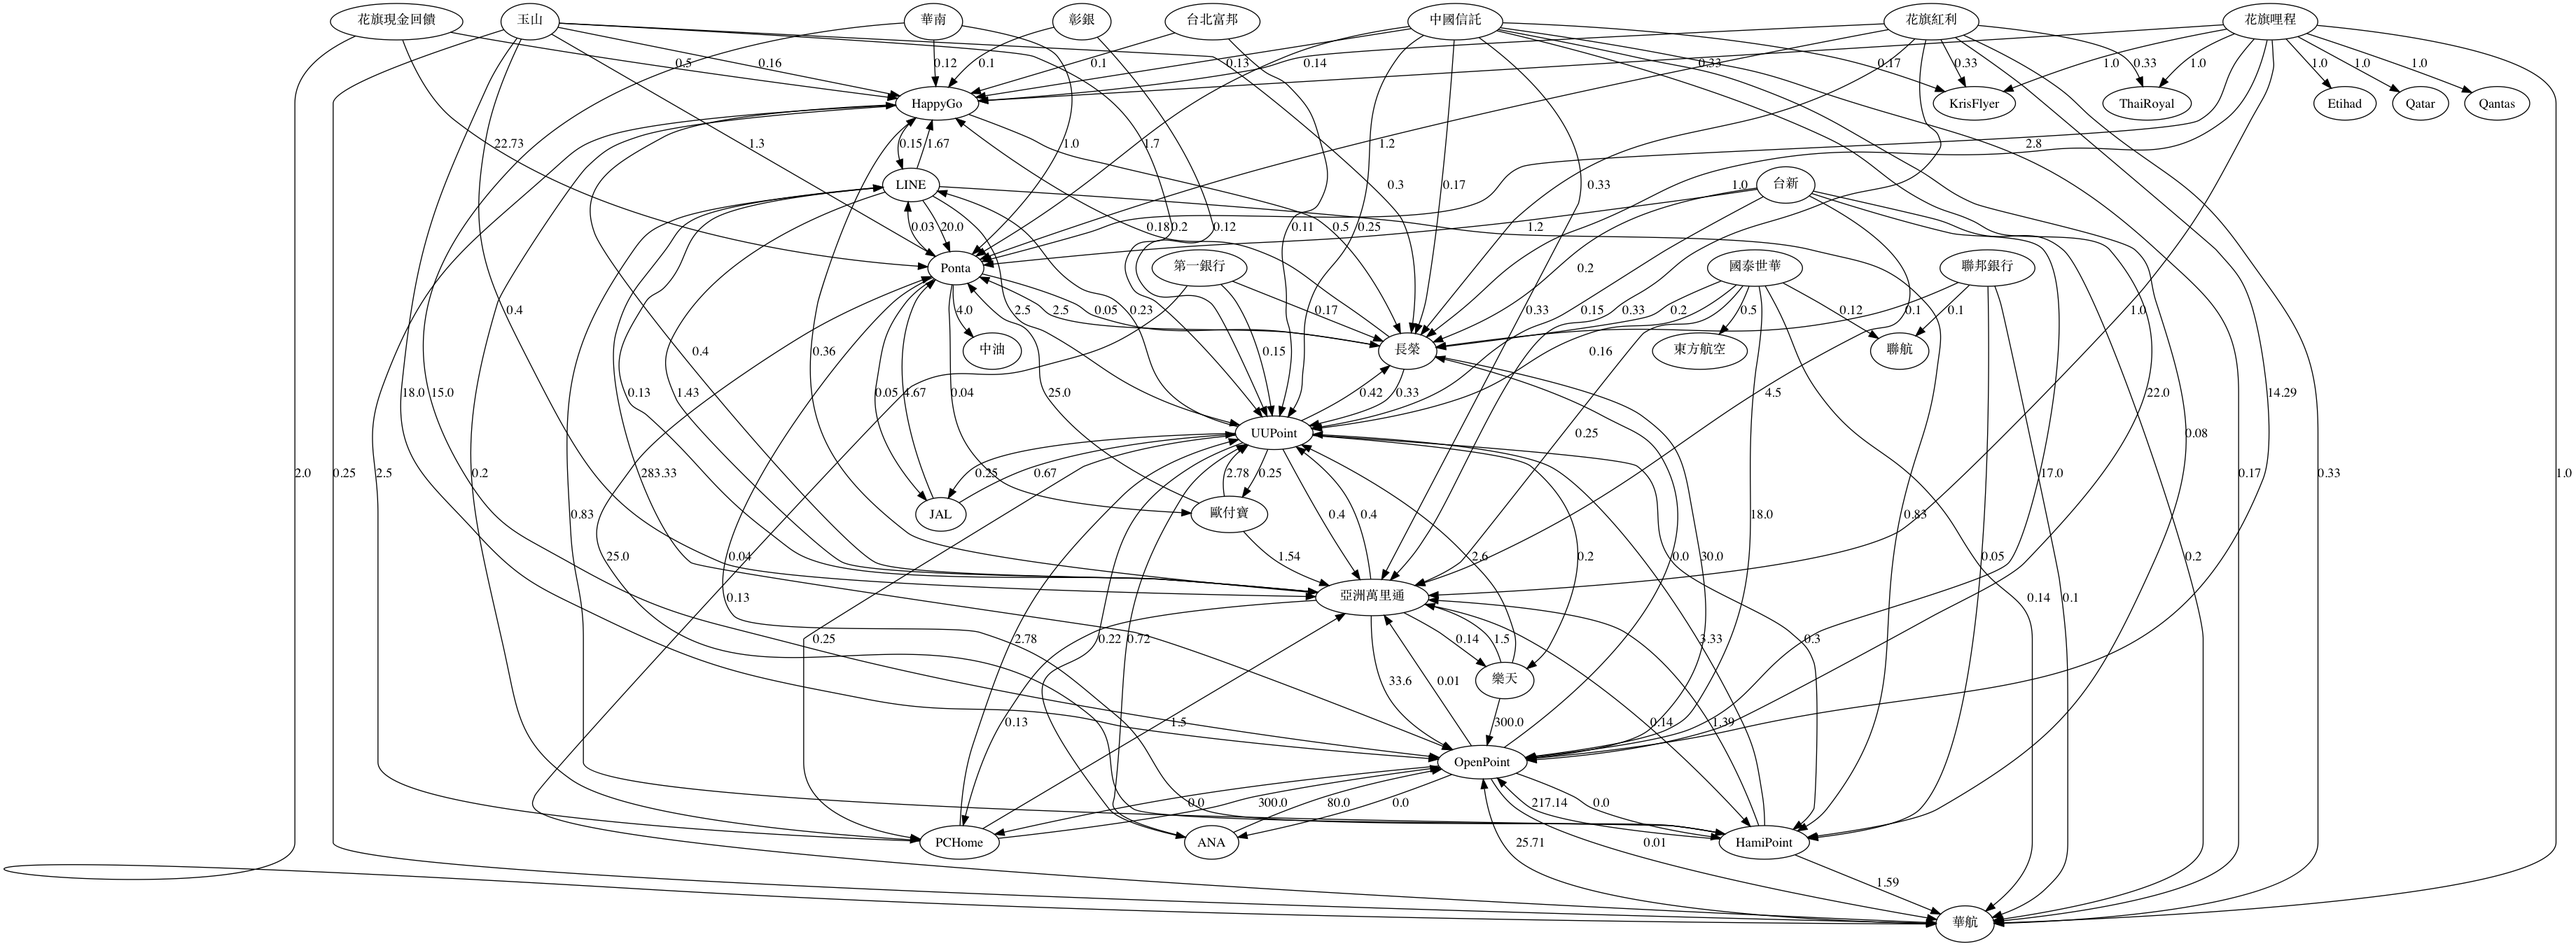
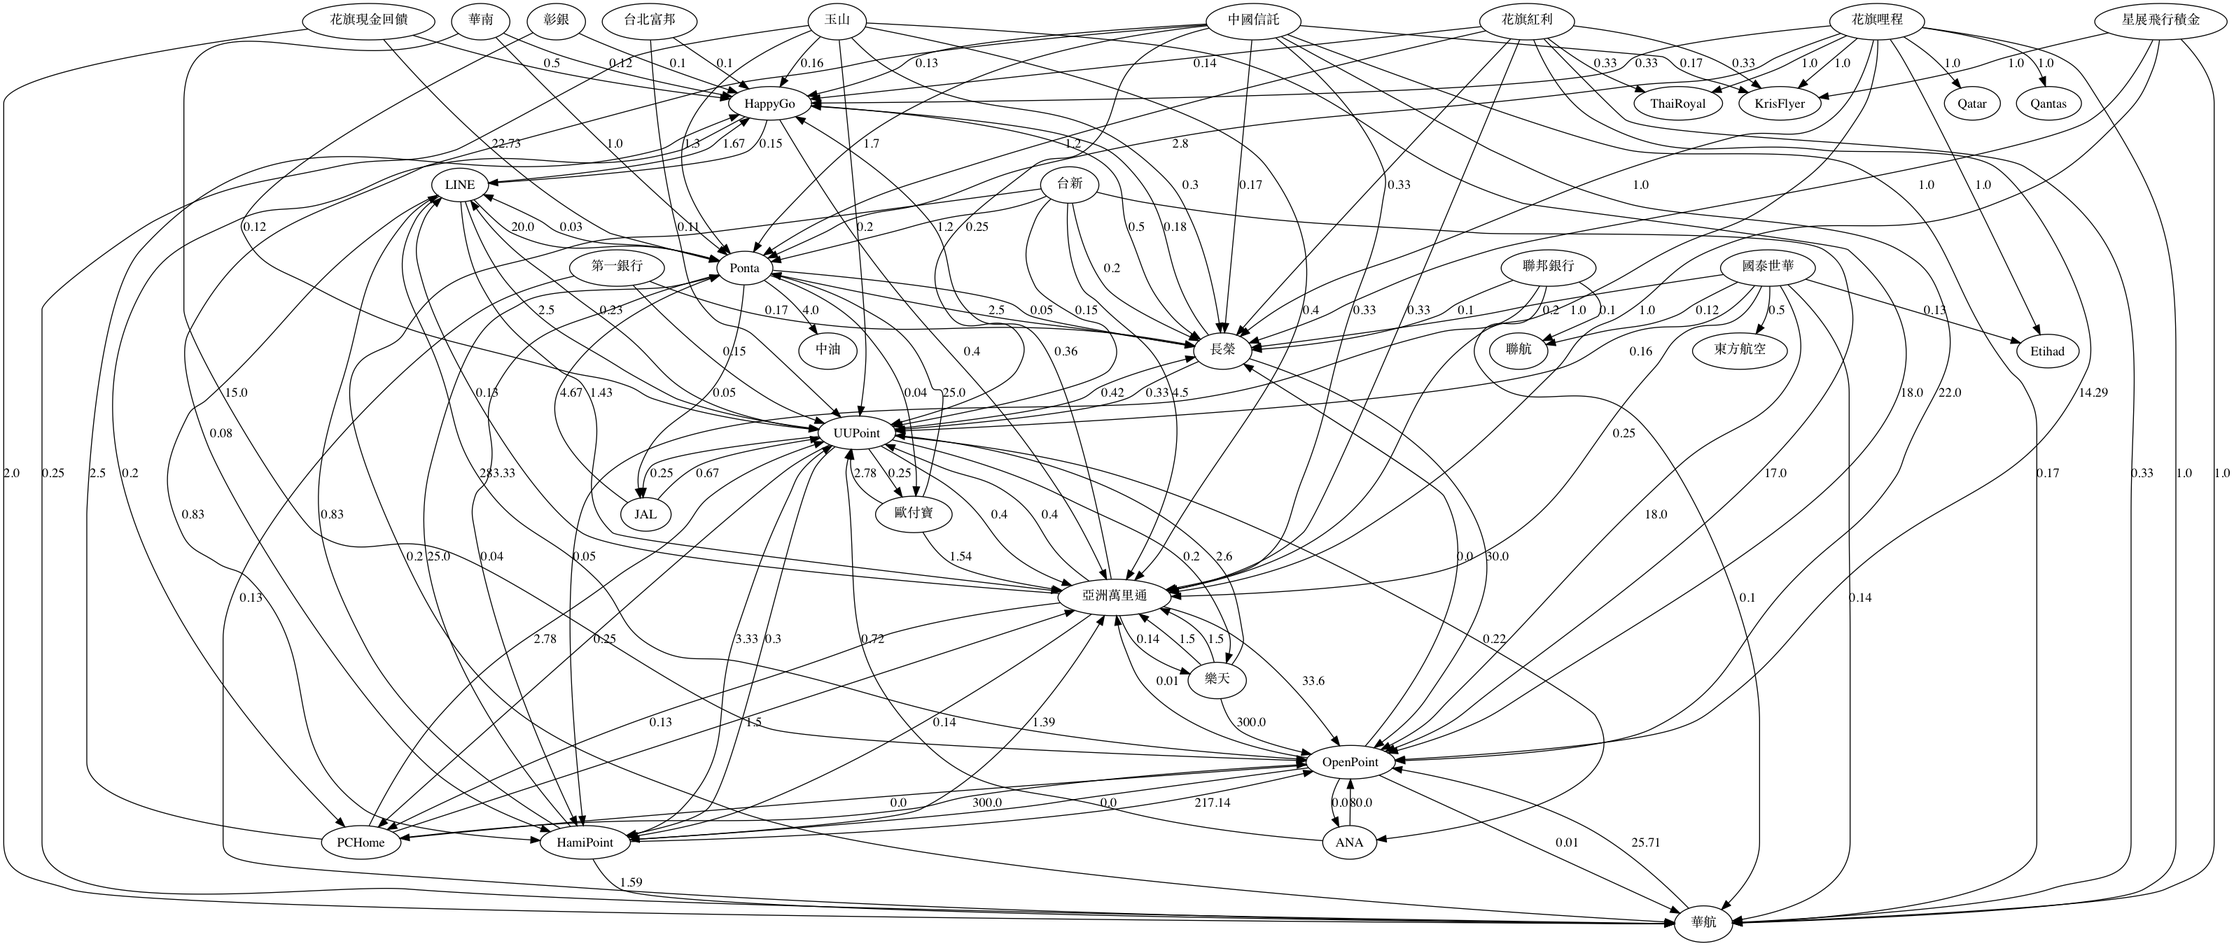
加上星展銀行(原澳盛飛行卡)

diff --git a/points.py b/points.py
@@ -91,6 +91,7 @@ edges = [
 	("樂天","OpenPoint",float(90000)/300),
 	("樂天","UUPoint",float(1300)/500),
 	("樂天","亞洲萬里通",float(300)/200),
+	("樂天","亞洲萬里通",float(300)/200),
 	("亞洲萬里通","HamiPoint",float(700)/5000),
 	("亞洲萬里通","LINE",float(650)/5000),
 	("亞洲萬里通","PCHome",float(650)/5000),
@@ -138,6 +139,11 @@ edges = [
 	("國泰世華","亞洲萬里通",float(2000)/8000),	
 	("國泰世華","東方航空",float(5000)/10000),	
 	("國泰世華","聯航",float(1000)/8500),	
+	("國泰世華","Etihad",float(1000)/7500),
+	("星展飛行積金","華航",float(1000)/1000),
+	("星展飛行積金","長榮",float(1000)/1000),
+	("星展飛行積金","亞洲萬里通",float(1000)/1000),
+	("星展飛行積金","KrisFlyer",float(1000)/1000),
 ]
 
 G.add_weighted_edges_from(edges)

diff --git a/README.md b/README.md
@@ -38,3 +38,5 @@ python points.py
 - 花旗 https://www.citibank.com.tw/global_docs/chi/cc/gr-mileage/index.html
 - 第一銀行 https://card.firstbank.com.tw/card/chn/content/tw/activityArea/index2.html
 - 國泰世華 https://www.cathaybk.com.tw/cathaybk/personal/credit-card/discount/bonus/point-exchange/
+- 樂天 https://pointexchange.rakuten.com.tw/exchange/
+- 星展 https://www.dbs.com.tw/personal-zh/cards/rewards/fly_redeem_mileage
